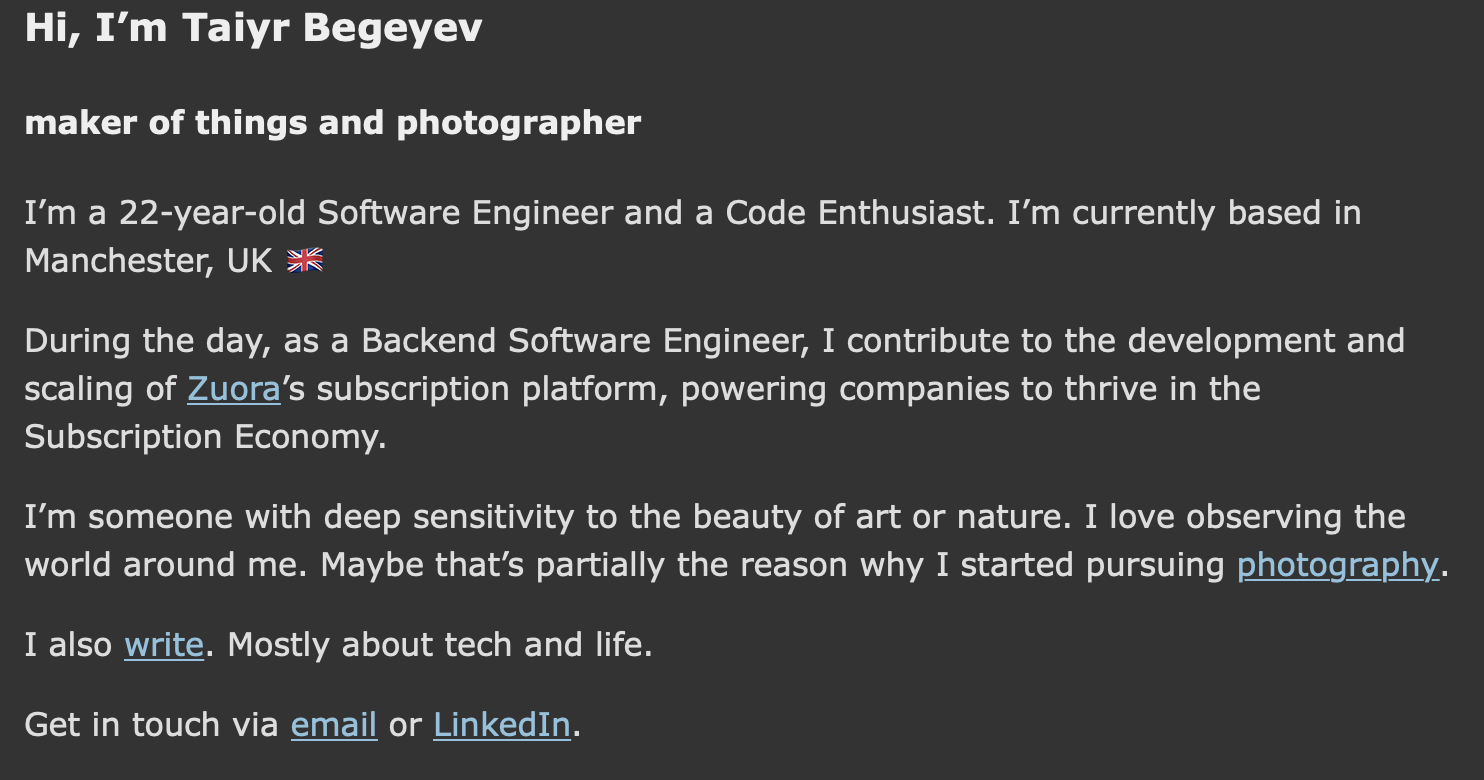
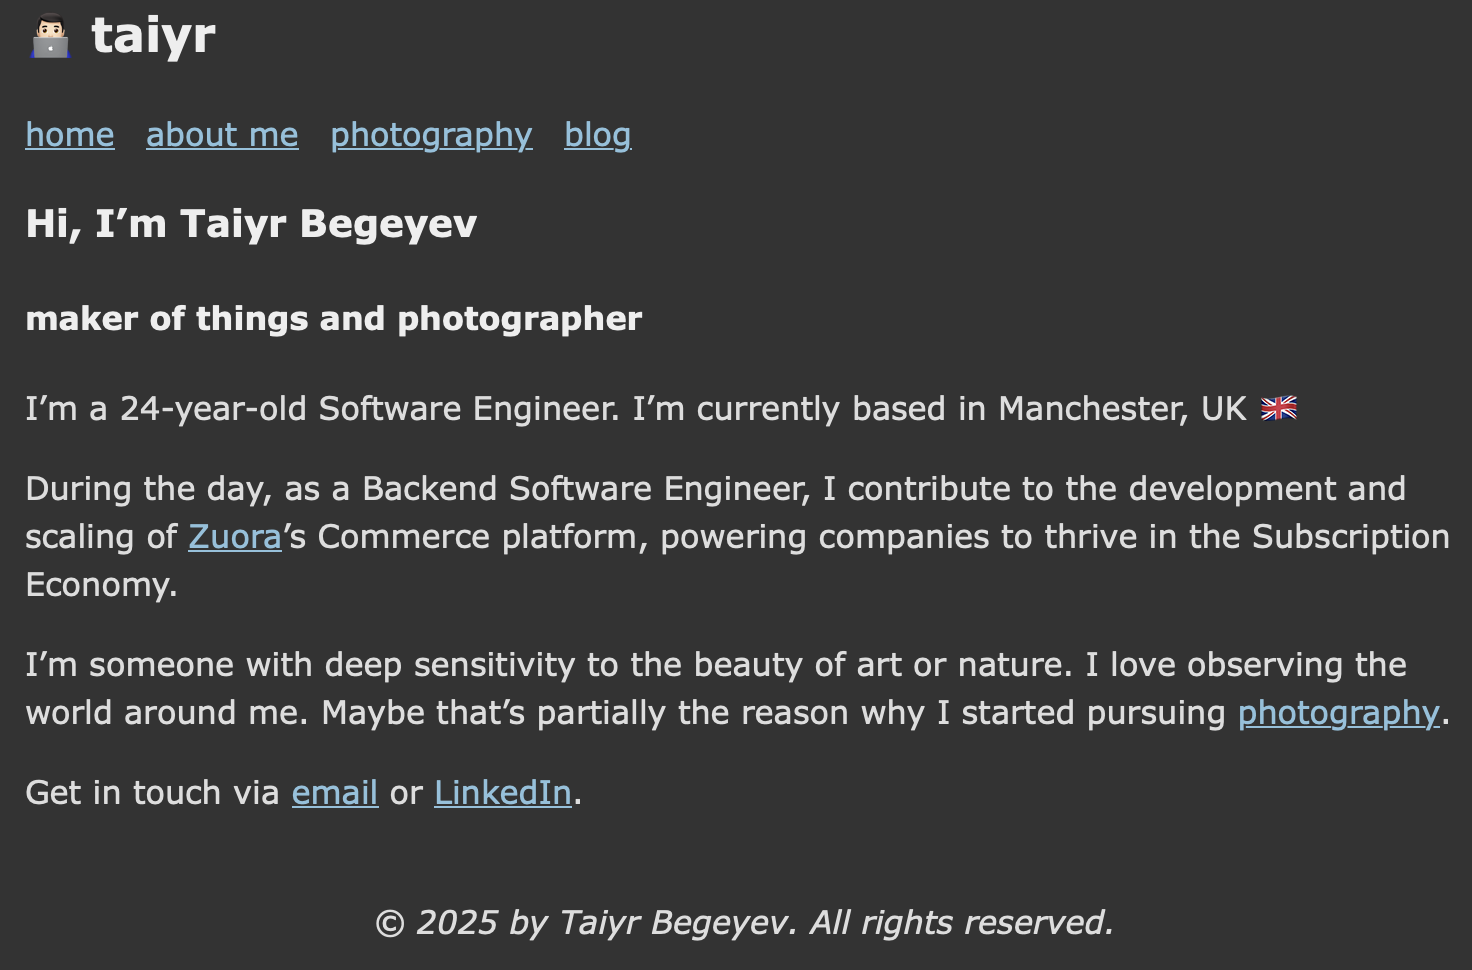
Update share png

diff --git a/content/about_me/index.md b/content/about_me/index.md
@@ -7,7 +7,7 @@ Ever since I was little, I've always been drawn to technology. Something that st
 
 ![kid taiyr](/taiyr_kid.jpg)
 
-This young boy didn't even suspect he'd be sitting in the same pose 17 years later. The more things change, the more they stay the same. One day I'll recreate this picture, but all in good time.
+This young boy didn't even suspect he'd be sitting in the same pose 19 years later. The more things change, the more they stay the same. One day I'll recreate this picture, but all in good time.
 
 ### Work Experience
 

diff --git a/content/_index.md b/content/_index.md
@@ -8,6 +8,4 @@ During the day, as a Backend Software Engineer, I contribute to the development 
 
 I'm someone with deep sensitivity to the beauty of art or nature. I love observing the world around me. Maybe that's partially the reason why I started pursuing [photography](/photography).
 
-I also [write](/blog). Mostly about tech and life.
-
 Get in touch via [email](mailto:taiyrbegeyev@gmail.com) or [LinkedIn](https://www.linkedin.com/in/taiyrbegeyev/).
